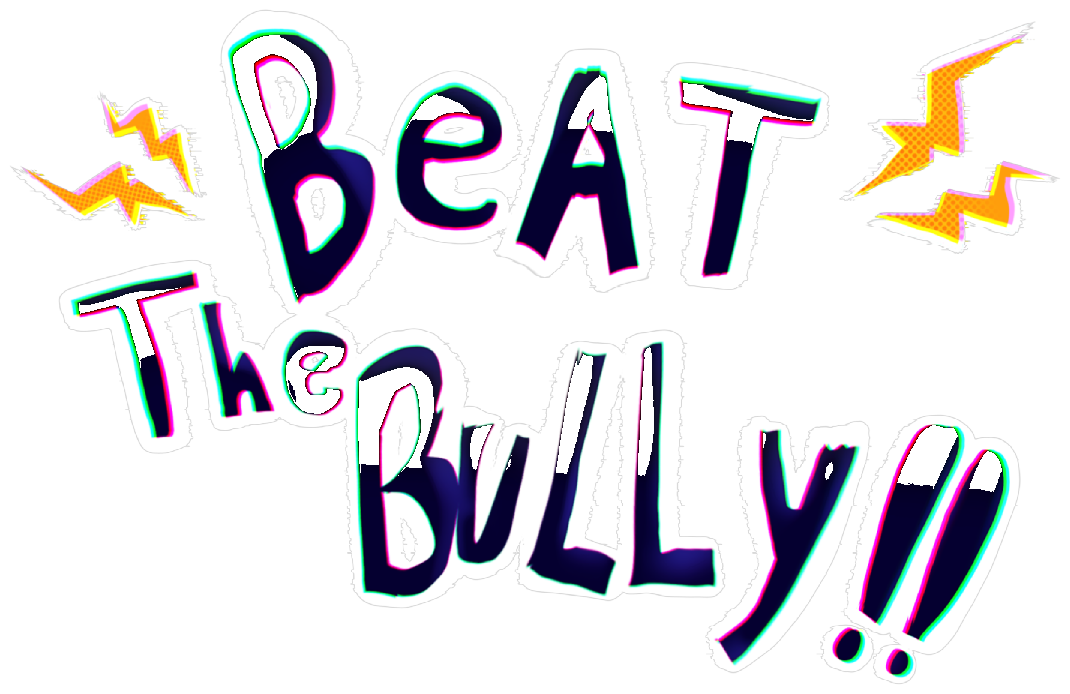
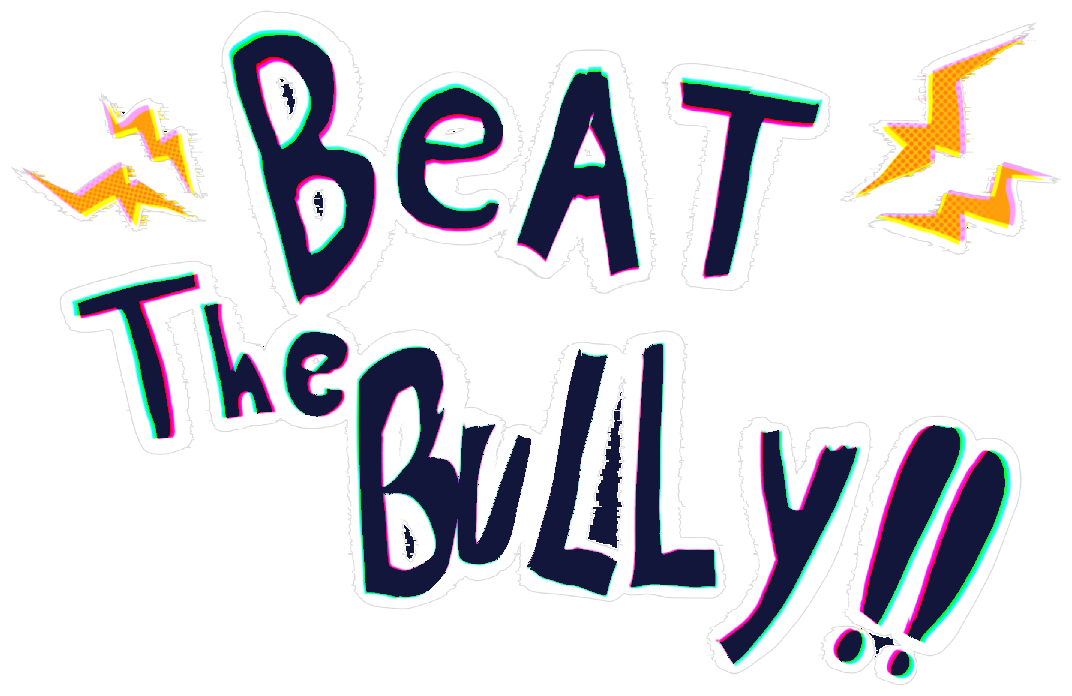
Fix menu title fill and pj3 battle texture size limit.
Fill logo letters with dark navy, regenerate pj3 idle sheet under 16384px wide to fix GLES texture error and missing battle sprite.

diff --git a/assets/images/ReDesignCursor/fix_title_and_pj3.py b/assets/images/ReDesignCursor/fix_title_and_pj3.py
@@ -1,0 +1,117 @@
+"""Regenerate menu title and pj3 battle sheet."""
+from __future__ import annotations
+
+import collections
+import math
+import os
+from pathlib import Path
+
+from PIL import Image
+
+ROOT = Path(__file__).resolve().parents[3]
+FILL = (18, 22, 58, 255)
+
+
+def is_bg(r: int, g: int, b: int, a: int) -> bool:
+    return a < 10 or (r < 28 and g < 28 and b < 28)
+
+
+def build_title() -> None:
+    src = ROOT / "assets/images/icons/Banner3.png"
+    dst = ROOT / "assets/images/menu/title.png"
+    img = Image.open(src).convert("RGBA")
+    w, h = img.size
+    px = img.load()
+
+    bg = [[False] * w for _ in range(h)]
+    q: collections.deque[tuple[int, int]] = collections.deque()
+    for x in range(w):
+        for y in (0, h - 1):
+            if not bg[y][x] and is_bg(*px[x, y]):
+                bg[y][x] = True
+                q.append((x, y))
+    for y in range(h):
+        for x in (0, w - 1):
+            if not bg[y][x] and is_bg(*px[x, y]):
+                bg[y][x] = True
+                q.append((x, y))
+    while q:
+        x, y = q.popleft()
+        for nx, ny in ((x + 1, y), (x - 1, y), (x, y + 1), (x, y - 1)):
+            if 0 <= nx < w and 0 <= ny < h and not bg[ny][nx] and is_bg(*px[nx, ny]):
+                bg[ny][nx] = True
+                q.append((nx, ny))
+
+    out = Image.new("RGBA", (w, h), (0, 0, 0, 0))
+    for y in range(h):
+        for x in range(w):
+            if bg[y][x]:
+                continue
+            r, g, b, a = px[x, y]
+            if r > 210 and g > 210 and b > 210:
+                out.putpixel((x, y), (r, g, b, a))
+            elif max(r, g, b) > 170 and (abs(r - g) > 40 or abs(r - b) > 40 or abs(g - b) > 40):
+                out.putpixel((x, y), (r, g, b, a))
+            elif r > 140 and g > 100 and b < 80:
+                out.putpixel((x, y), (r, g, b, a))
+            else:
+                out.putpixel((x, y), FILL)
+
+    bbox = out.getbbox()
+    if bbox:
+        out = out.crop(bbox)
+    pad = 10
+    final = Image.new("RGBA", (out.width + pad * 2, out.height + pad * 2), (0, 0, 0, 0))
+    final.paste(out, (pad, pad), out)
+    final.save(dst)
+    print("title", final.size)
+
+
+def trim_icon(img: Image.Image, tol: int = 80) -> Image.Image:
+    bg = img.getpixel((0, 0))
+    px = img.load()
+    w, h = img.size
+    minx, miny, maxx, maxy = w, h, 0, 0
+    for y in range(h):
+        for x in range(w):
+            r, g, b, a = px[x, y]
+            if a < 10:
+                continue
+            if abs(r - bg[0]) < tol and abs(g - bg[1]) < tol and abs(b - bg[2]) < tol:
+                continue
+            minx = min(minx, x)
+            miny = min(miny, y)
+            maxx = max(maxx, x)
+            maxy = max(maxy, y)
+    return img.crop((minx, miny, maxx + 1, maxy + 1))
+
+
+def build_pj3_idle() -> None:
+    icon = Image.open(ROOT / "assets/images/characters/pj3/pj3_icon.png").convert("RGBA")
+    icon_trim = trim_icon(icon)
+    fw, fh = 1280, 1280
+    frames = 9
+    sheet_w = fw * frames
+    if sheet_w > 16384:
+        raise ValueError(f"sheet too wide: {sheet_w}")
+    sheet = Image.new("RGBA", (sheet_w, fh), (0, 0, 0, 0))
+    scale = (fh * 0.82) / icon_trim.height
+    new_w = max(1, int(icon_trim.width * scale))
+    new_h = max(1, int(icon_trim.height * scale))
+    icon_scaled = icon_trim.resize((new_w, new_h), Image.Resampling.LANCZOS)
+    for i in range(frames):
+        frame = Image.new("RGBA", (fw, fh), (0, 0, 0, 0))
+        bob = int(12 * math.sin(i * 1.05))
+        sway = int(6 * math.cos(i * 0.85))
+        x = (fw - new_w) // 2 + sway
+        y = fh - new_h - 70 + bob
+        frame.paste(icon_scaled, (x, y), icon_scaled)
+        sheet.paste(frame, (i * fw, 0))
+    out_path = ROOT / "assets/images/characters/pj3/pj3_idle.png"
+    sheet.save(out_path)
+    print("pj3_idle", sheet.size)
+
+
+if __name__ == "__main__":
+    build_title()
+    build_pj3_idle()
